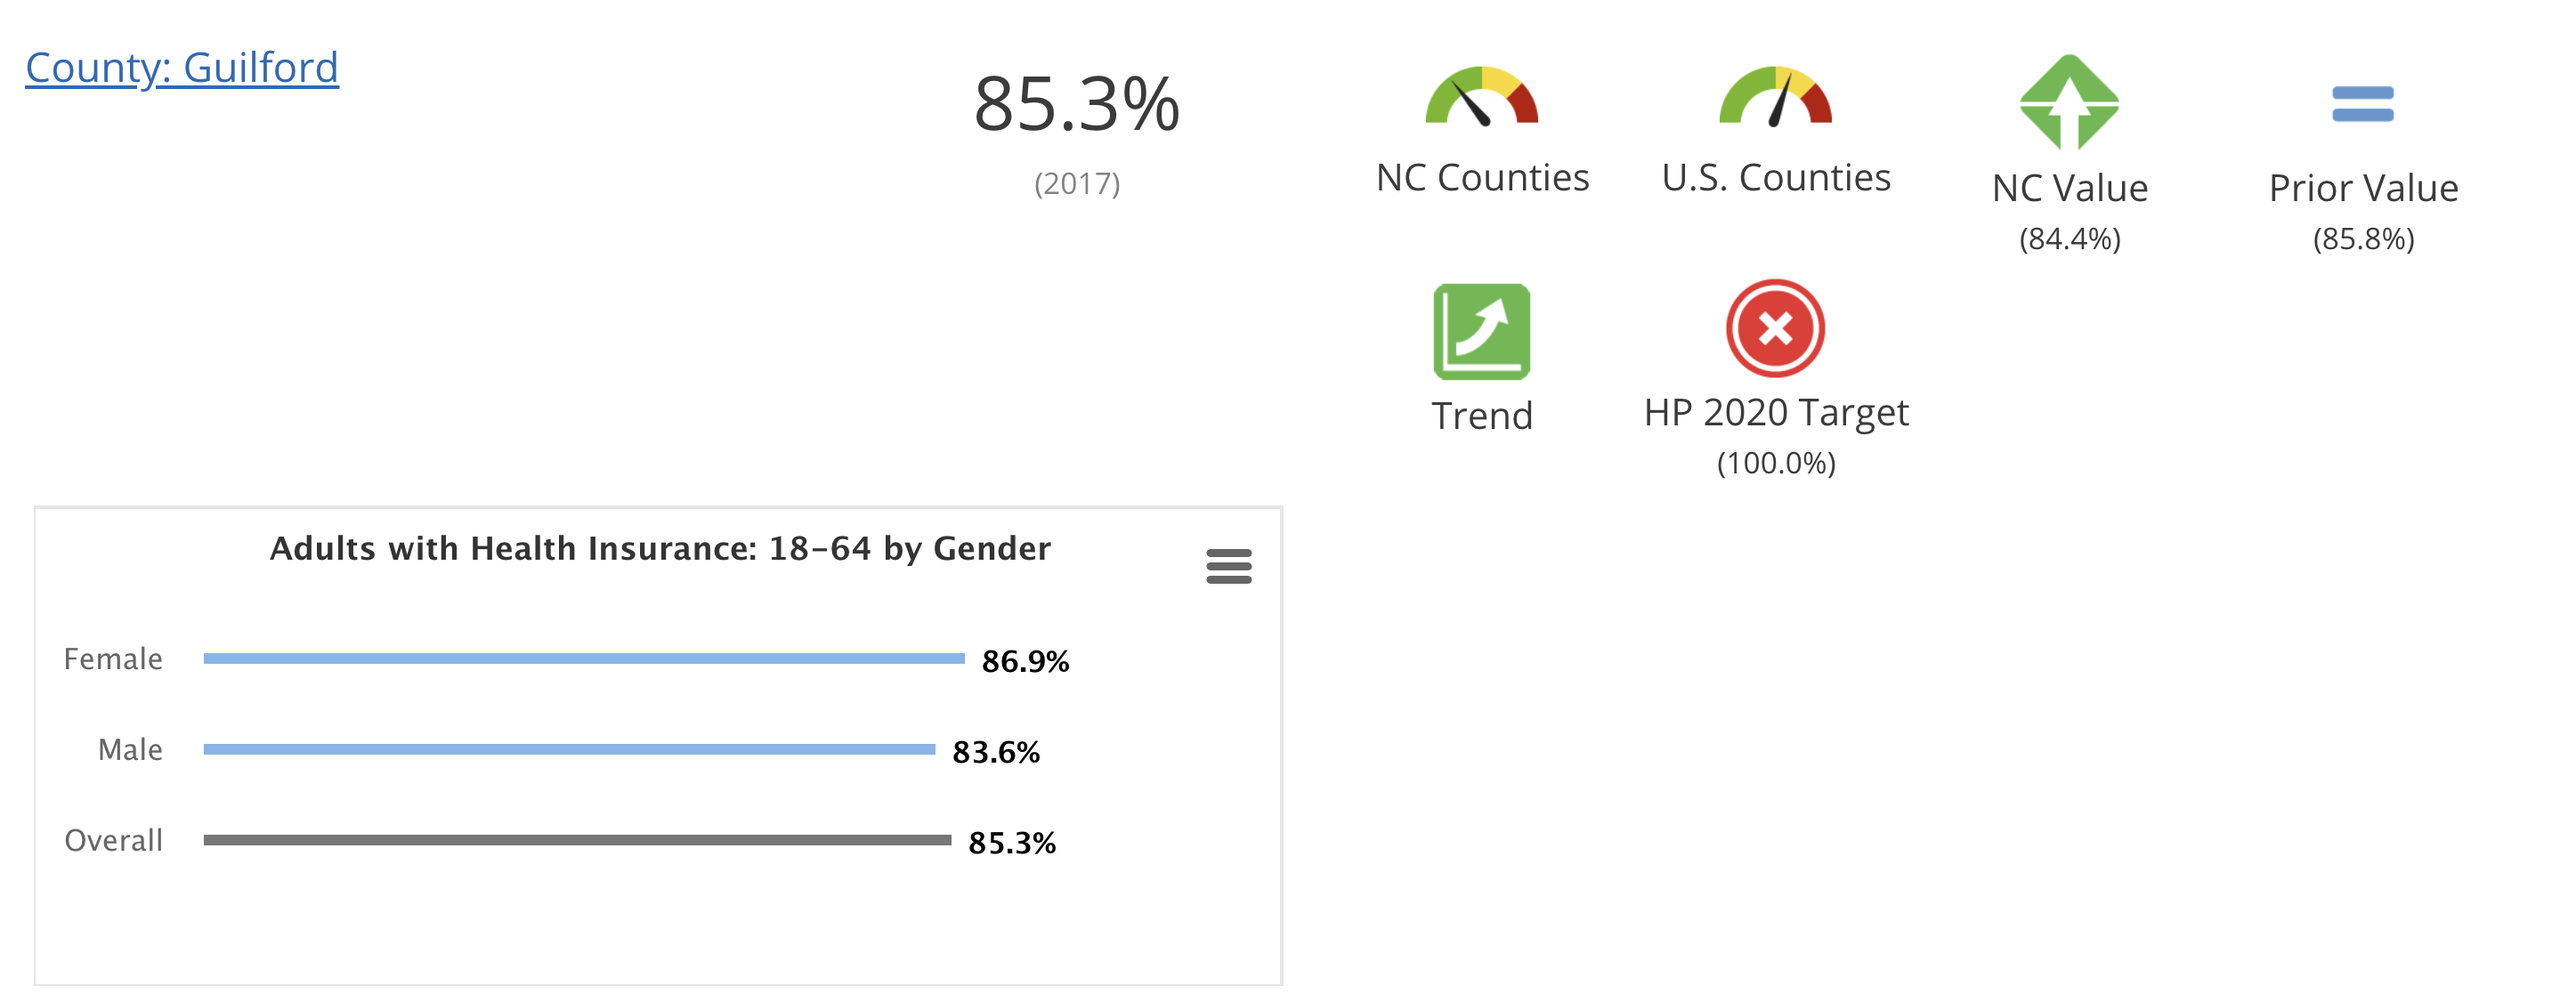
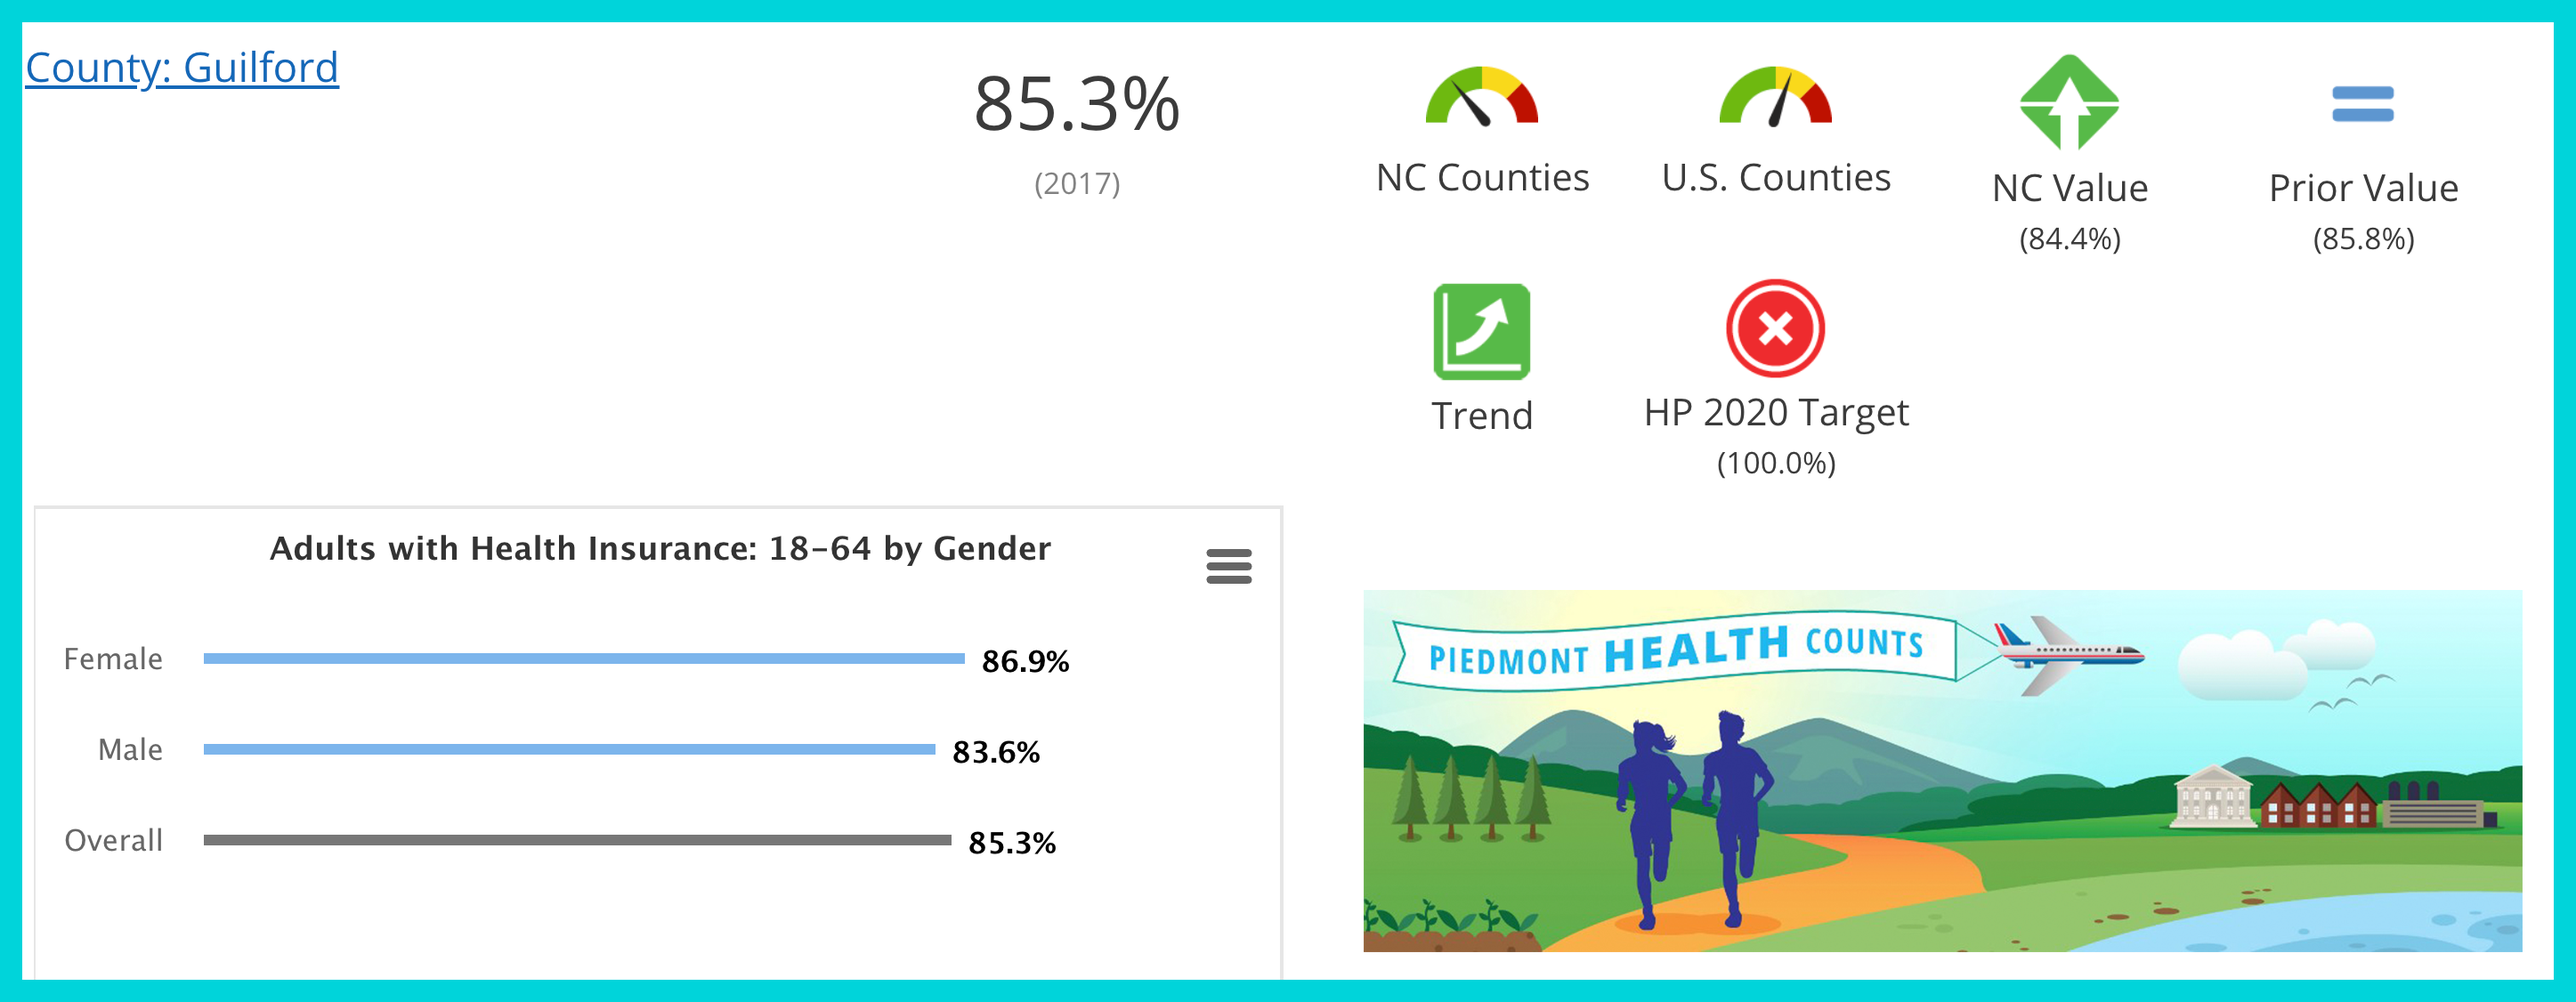
updated all the colors and moved the resources box

diff --git a/shiny/www/sdashboard.css b/shiny/www/sdashboard.css
@@ -414,3 +414,21 @@ margin-bottom: 20px;
   text-align: left;
   
 }
+
+.btn-playMenu{
+  color:#FFC91D;
+  border-color: rgba(255,255,255,0);
+  font-size: 25px;
+  text-align: left;
+  
+}
+
+
+.btn-engageMenu{
+  color:#ff5a27;
+  border-color: rgba(255,255,255,0);
+  font-size: 25px;
+  text-align: left;
+  
+}
+
